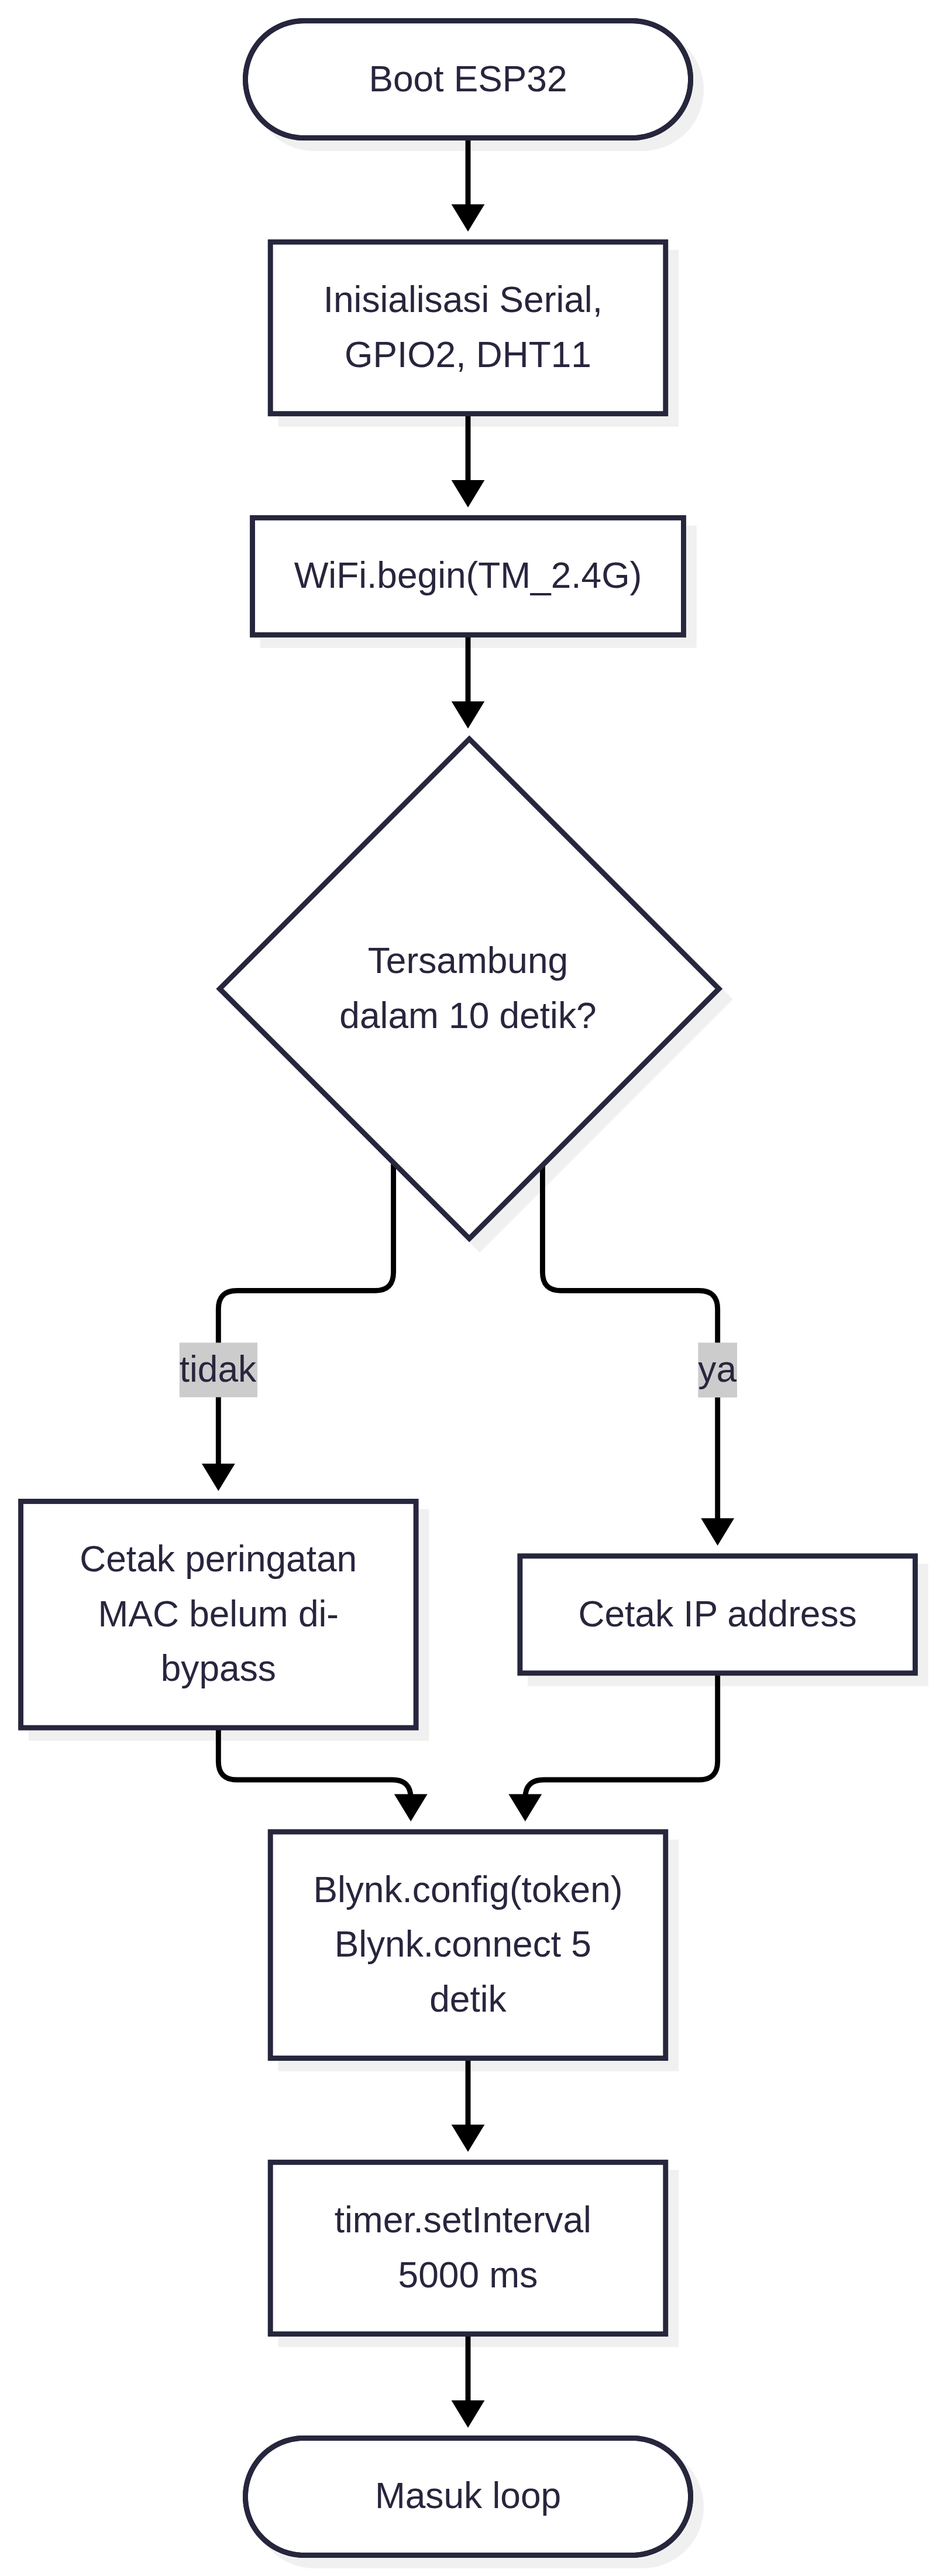
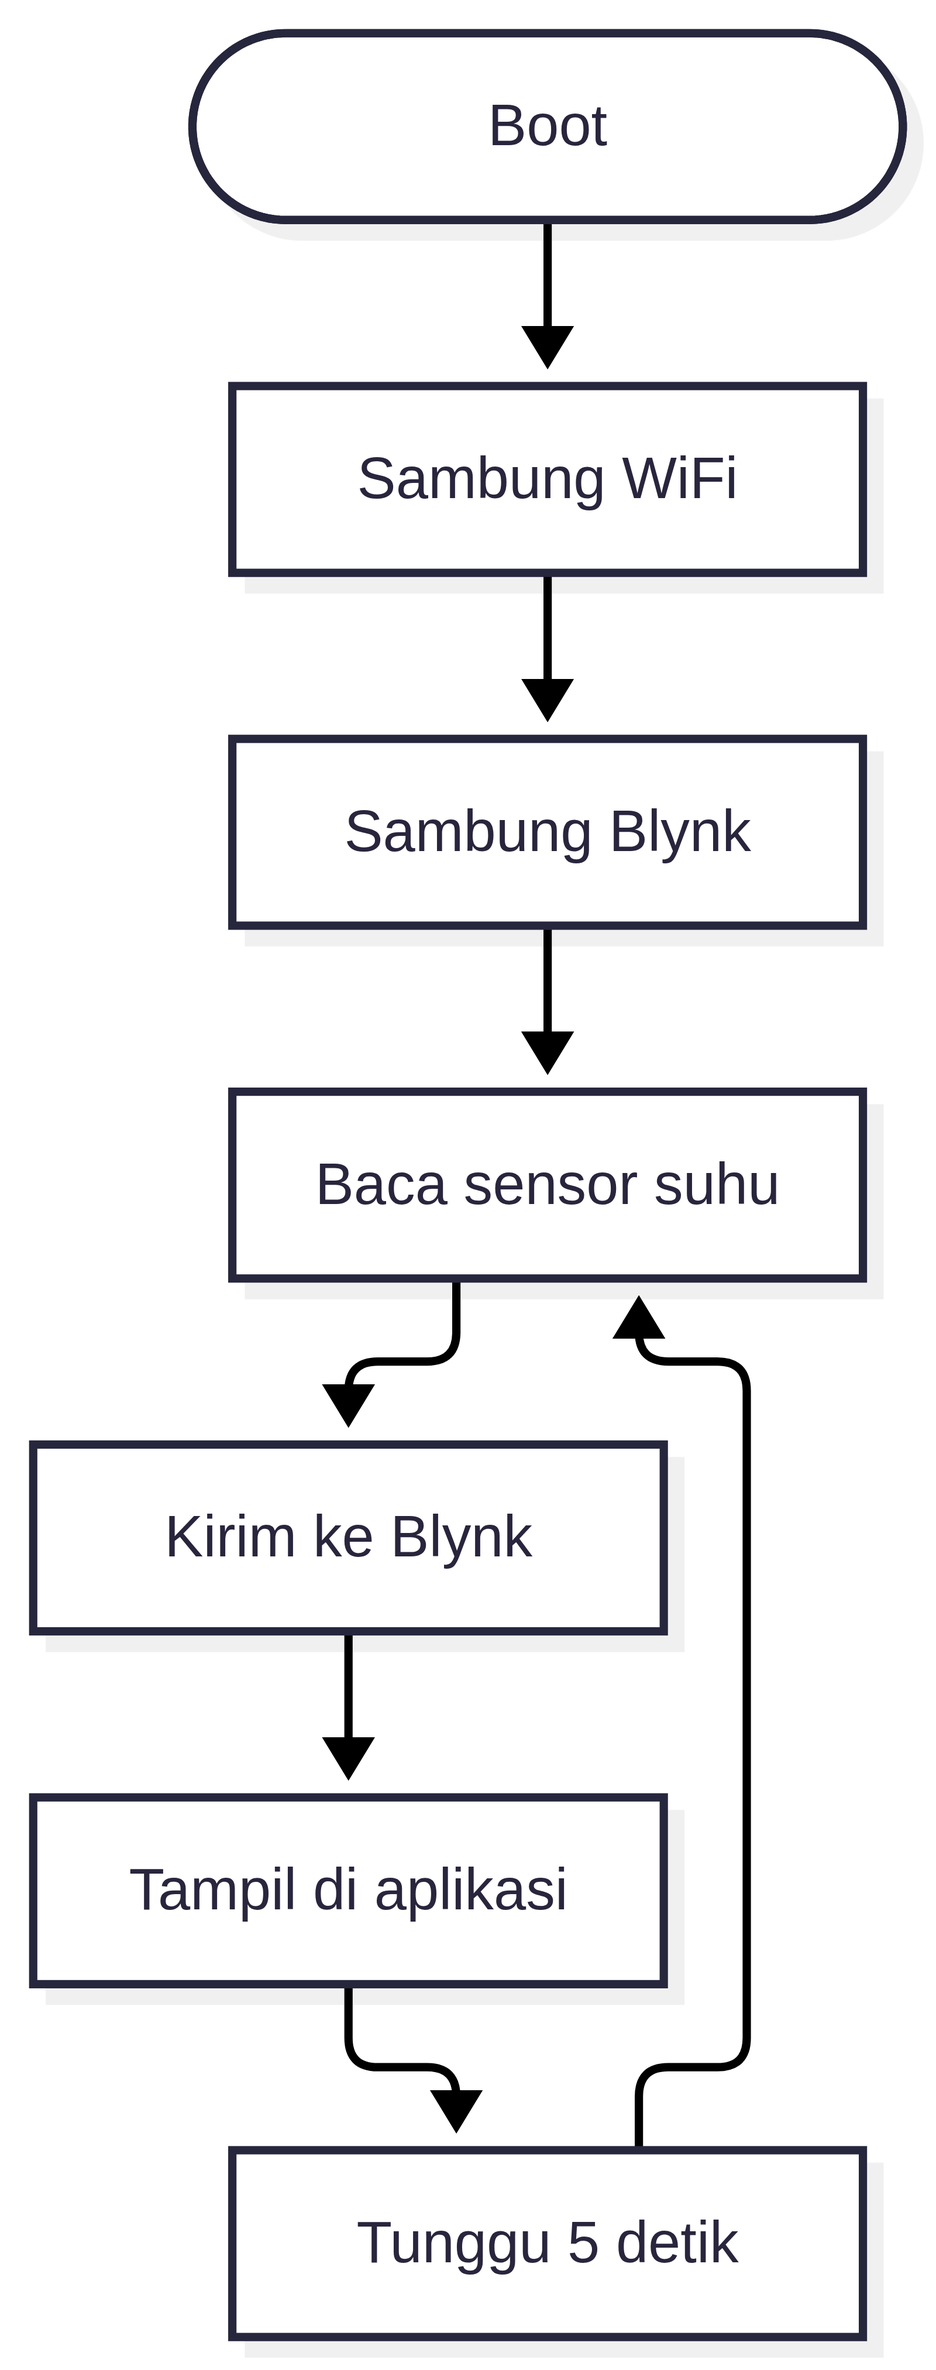
docs: sederhanakan block diagram dan flowchart Blynk

Changed region(s): [[0.0, 0.0, 0.9375, 0.9958], [0.875, 0.0311, 0.9688, 0.0934], [0.9688, 0.5913, 1.0, 0.6535]]

diff --git a/docs/diagrams/flowchart-blynk.md b/docs/diagrams/flowchart-blynk.md
@@ -1,57 +1,28 @@
 # Flowchart Versi Blynk
 
-## 1. Setup (sekali saat boot)
+## 1. Alur data suhu
 
 ```mermaid
 flowchart TB
-    A([Boot ESP32]) --> B["Inisialisasi Serial, GPIO2, DHT11"]
-    B --> C["WiFi.begin(TM_2.4G)"]
-    C --> D{"Tersambung<br/>dalam 10 detik?"}
-    D -- tidak --> E["Cetak peringatan<br/>MAC belum di-bypass"]
-    D -- ya --> F["Cetak IP address"]
-    E --> G["Blynk.config(token)<br/>Blynk.connect 5 detik"]
-    F --> G
-    G --> H["timer.setInterval 5000 ms"]
-    H --> I([Masuk loop])
+    A([Boot]) --> B[Sambung WiFi]
+    B --> C[Sambung Blynk]
+    C --> D[Baca sensor suhu]
+    D --> E[Kirim ke Blynk]
+    E --> F[Tampil di aplikasi]
+    F --> G[Tunggu 5 detik]
+    G --> D
 ```
 
-## 2. Loop utama
+## 2. Alur kontrol LED
 
 ```mermaid
 flowchart TB
-    A([loop]) --> B["Blynk.run()"]
-    B --> C["timer.run()"]
-    C --> D{"Blynk terputus<br/>lebih dari 10 detik?"}
-    D -- ya --> E["Blynk.connect 3 detik"] --> F["Cek interval 5 detik"]
-    D -- tidak --> F
-    F -- waktunya --> G["Baca DHT11 GPIO4"]
-    F -- belum --> A
-    G --> H{"Pembacaan valid?"}
-    H -- tidak --> I["Log gagal baca"]
-    H -- ya --> J["Blynk.virtualWrite V3 suhu"]
-    I --> K["Log status WiFi + Blynk"]
-    J --> K
-    K --> L{"WiFi putus?"}
-    L -- ya --> M["WiFi.begin ulang"]
-    L -- tidak --> A
-    M --> A
+    A([Tombol LED di aplikasi]) --> B[Perintah dikirim ke board]
+    B --> C{LedOn = 1?}
+    C -- ya --> D[LED menyala]
+    C -- tidak --> E[LED mati]
+    D --> F([selesai])
+    E --> F
 ```
 
-## 3. Tombol LED di aplikasi
-
-```mermaid
-flowchart TB
-    A([Pengguna geser tombol V2]) --> B["Server Blynk kirim nilai ke board"]
-    B --> C["BLYNK_WRITE(V2)<br/>param.asInt()"]
-    C --> D{"nilai = 1?"}
-    D -- ya --> E["digitalWrite GPIO2 HIGH<br/>LED nyala"]
-    D -- tidak --> F["digitalWrite GPIO2 LOW<br/>LED mati"]
-    E --> G["Log status LED"]
-    F --> G
-    G --> H{"Board baru tersambung?"}
-    H -- ya --> I["BLYNK_CONNECTED<br/>syncVirtual V2<br/>ambil status terakhir"]
-    H -- tidak --> J([selesai])
-    I --> J
-```
-
-Gambar: `flowchart-blynk-1.png`, `flowchart-blynk-2.png`, `flowchart-blynk-3.png`.
+Gambar: `flowchart-blynk-1.png`, `flowchart-blynk-2.png`.

diff --git a/docs/diagrams/block-diagram-blynk.md b/docs/diagrams/block-diagram-blynk.md
@@ -1,29 +1,10 @@
 # Block Diagram Versi Blynk
 
-Tanpa server Flask. Board bicara langsung ke Blynk Cloud.
-
 ```mermaid
 flowchart LR
-    subgraph LOKAL["Jaringan lokal"]
-        direction TB
-        ESP["ESP32<br/>LED GPIO2<br/>DHT11 data GPIO4"]
-        RT["Router / hotspot WiFi<br/>SSID TM_2.4G<br/>bypass MAC di MikroTik"]
-    end
-    subgraph CLOUD["Cloud"]
-        direction TB
-        NET["Internet"]
-        BL["Blynk Cloud<br/>Template: nama template Blynk<br/>V2 = LED, V3 = suhu"]
-        APP["Aplikasi Blynk di HP"]
-    end
-    ESP <-->|"TCP keluar"| RT
-    RT --> NET
-    NET <--> BL
-    BL <-->|"tombol V2, grafik V3"| APP
+    ESP["ESP32<br/>LED + sensor suhu"] <-->|"WiFi"| RT["Router / hotspot"]
+    RT <-->|"Internet"| BL["Blynk Cloud"]
+    BL <--> APP["Aplikasi Blynk di HP"]
 ```
 
-## Keterangan
-
-- ESP32 sebagai **client**, membuka koneksi keluar ke Blynk Cloud. Tidak ada port yang dibuka di board.
-- Aplikasi Blynk di HP juga membuka koneksi ke cloud yang sama, jadi keduanya tidak perlu satu jaringan.
-- `V2` menulis ke board (tombol ON/OFF), `V3` dibaca dari board (suhu tiap 5 detik).
-- Tidak ada database: status LED dan suhu terakhir disimpan di server Blynk.
+Gambar: `block-diagram-blynk-1.png`.
